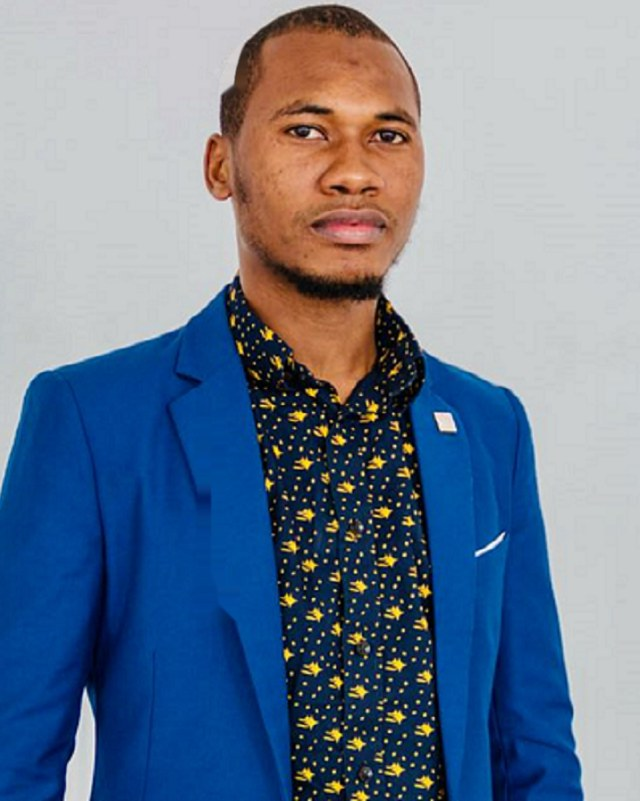
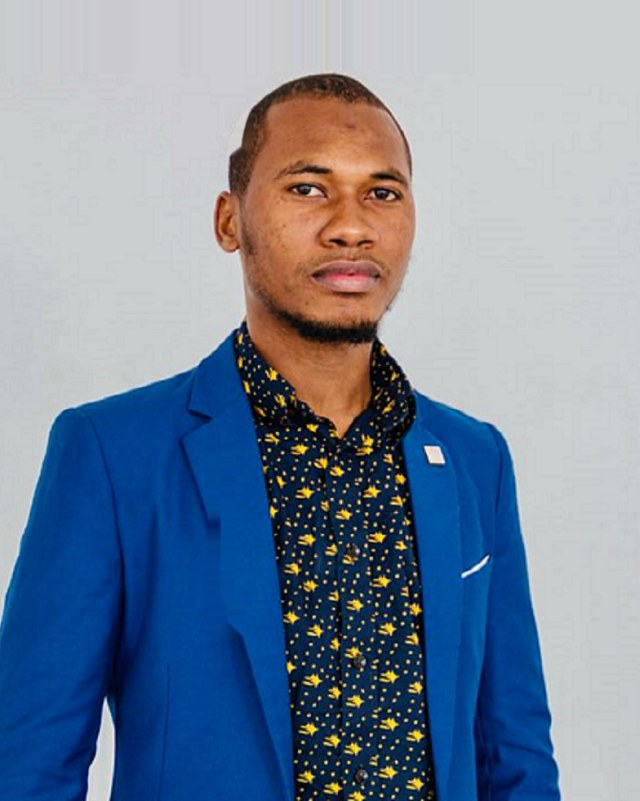
Recrop portrait with headroom above the hair
The previous 4:5 crop left the hair touching the top edge. Rebuilt
from the original photo (artifact cleanup re-applied), extending the
uniform background upward by 85px before cropping, and bumped the
image cache-buster.

Claude-Session: https://claude.ai/code/session_01A7buGfpeg2zgE9xgJ9LEaU

diff --git a/index.html b/index.html
@@ -142,7 +142,7 @@
 
     <div class="home-side">
       <div class="home-photo">
-        <img src="assets/img/portrait.jpg" alt="Portrait of Ibrahim Goni Abdoulkadiri" width="640" height="801">
+        <img src="assets/img/portrait.jpg?v=2" alt="Portrait of Ibrahim Goni Abdoulkadiri" width="640" height="801">
       </div>
       <div class="side-facts">
         <p class="facts-label">Education</p>
